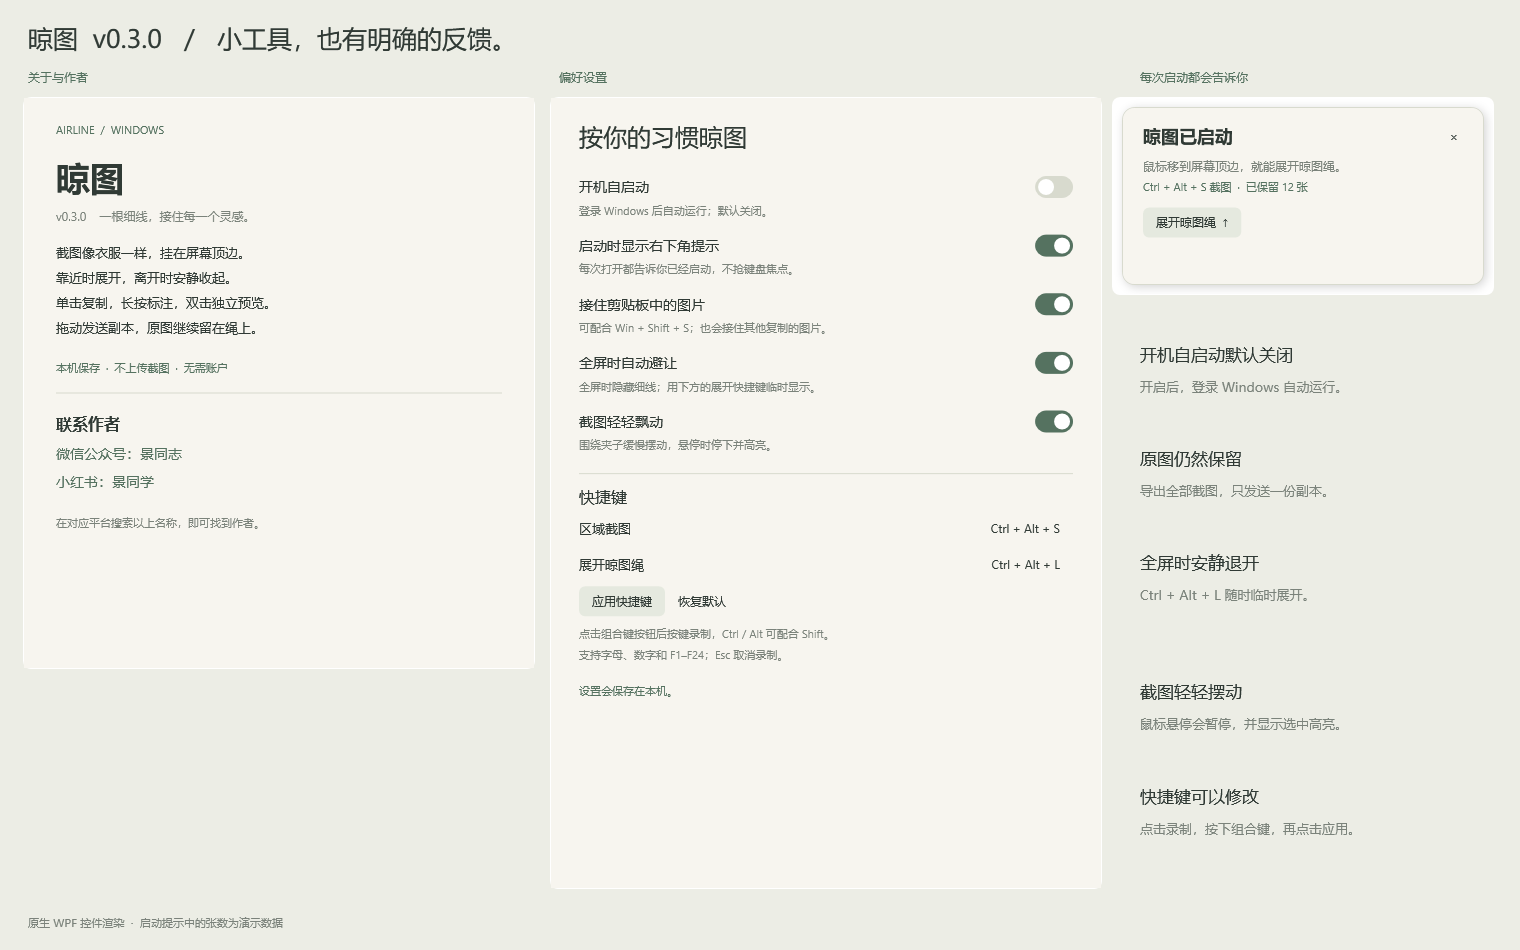
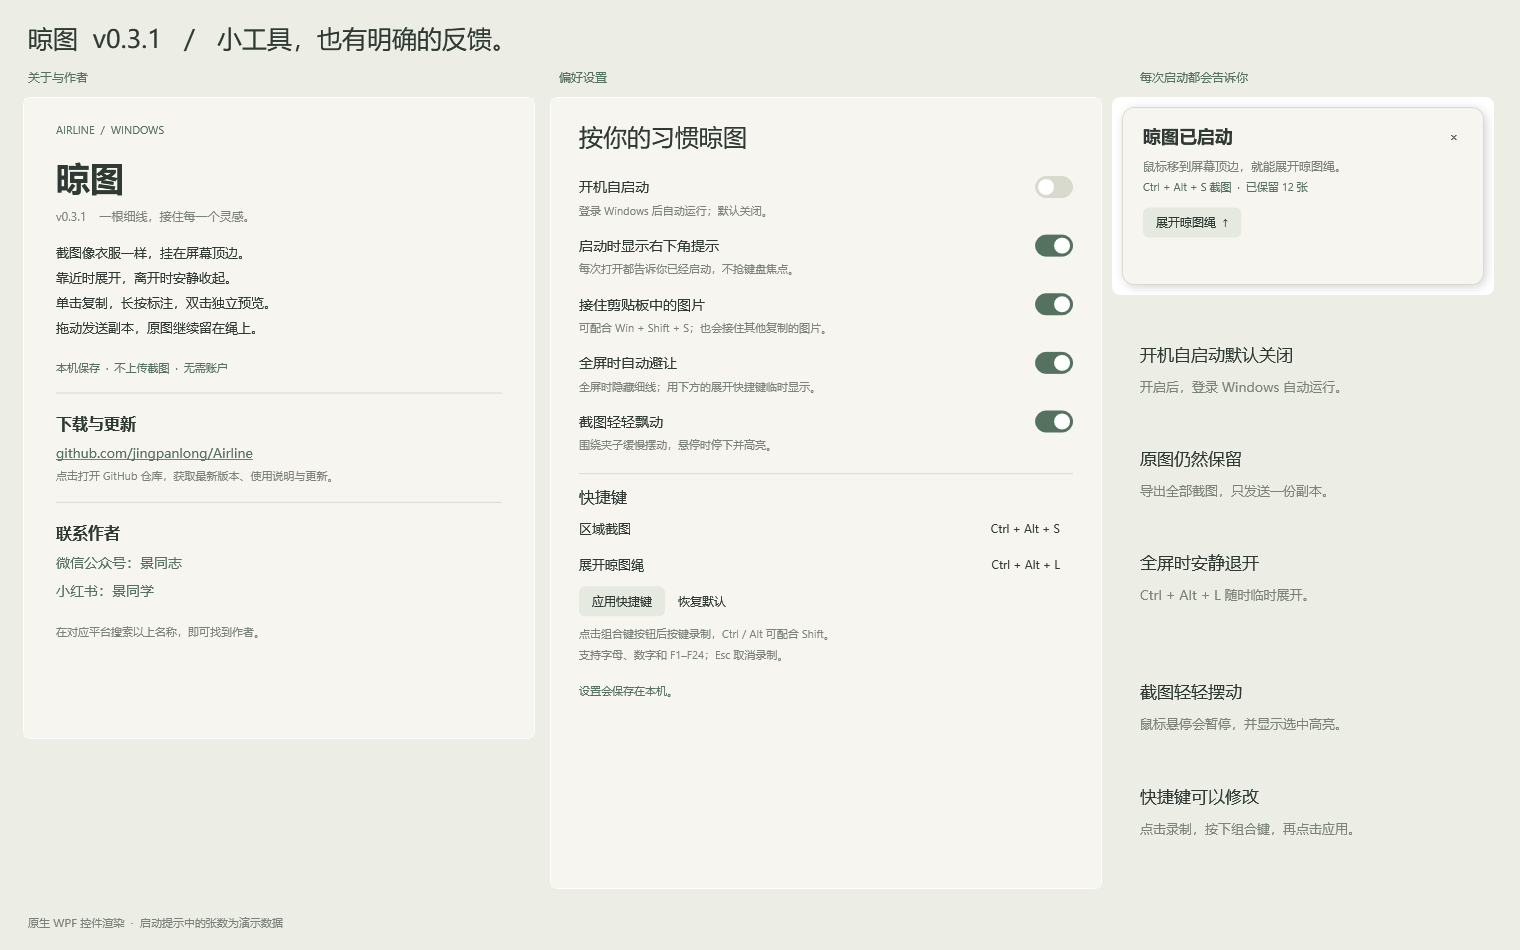
fix(build): 构建脚本添加 UTF-8 BOM，中文系统可正常编译
- 无 BOM 的 UTF-8 脚本在中文 Windows（代码页 936）下会被脚本
  引擎按本地编码误读，导致 build.ps1 解析失败
- 修正自检中 GitHub 链接 Run 的查找层级（在 Hyperlink 内）
- 同步 83 项自检计数、v0.3.1 下载文件名与功能预览图

Changed region(s): [[0.0309, 0.4274, 0.2164, 0.6716], [0.0928, 0.0305, 0.1237, 0.0611]]

diff --git a/source/Diagnostics.cs b/source/Diagnostics.cs
@@ -237,7 +237,7 @@ namespace Airline {
                 check(Find<TextBlock>(about,"AuthorContacts").Text=="微信公众号：景同志\n小红书：景同学" && !shelf.IsBusy,"About contains exact author contacts and does not lock shelf");
                 var linkBlock=Find<TextBlock>(about,"RepositoryLink");
                 var link=linkBlock==null?null:linkBlock.Inlines.OfType<System.Windows.Documents.Hyperlink>().FirstOrDefault();
-                check(link!=null && link.NavigateUri.ToString()==Product.Repository && linkBlock.Inlines.OfType<System.Windows.Documents.Run>().Any(run=>run.Text==Product.RepositoryLabel),"About shows the GitHub repository address");
+                check(link!=null && link.NavigateUri.ToString()==Product.Repository && link.Inlines.OfType<System.Windows.Documents.Run>().Any(run=>run.Text==Product.RepositoryLabel),"About shows the GitHub repository address");
                 string opened=null; var previousOpen=AboutWindow.OpenLink;
                 try { AboutWindow.OpenLink=url=>opened=url; if(link!=null) link.RaiseEvent(new System.Windows.Navigation.RequestNavigateEventArgs(link.NavigateUri,"about")); }
                 finally { AboutWindow.OpenLink=previousOpen; }

diff --git a/README.md b/README.md
@@ -44,10 +44,11 @@
 - **开机自启动**：只写当前用户注册表 `HKCU\...\Run`，无需管理员权限，默认关闭
 - **全屏自动避让**：全屏应用时连细线都隐藏，`Ctrl + Alt + L` 可临时展开十秒
 - **批量导出**：一键把全部原图导出到时间戳文件夹
+- **关于窗口直达下载**：「关于」内提供 GitHub 仓库链接，点击即可获取最新版本（v0.3.1）
 
 ![新增功能预览](新增功能预览.png)
 
-### 📦 安装版（v0.3.0）
+### 📦 安装版（v0.3.1）
 
 - 单文件安装器：选择位置、可选桌面快捷方式 / 开机自启动 / 装完即开
 - 当前用户级安装，**无需管理员权限**，可从 Windows"应用列表"卸载
@@ -71,7 +72,7 @@
 
 ## 🚀 下载使用
 
-1. 从 [Releases](../../releases) 下载**安装版**（`晾图-v0.3.0-安装版.exe`）或**单文件版**（`晾图-v0.3.0-单文件版.exe`）
+1. 从 [Releases](../../releases) 下载**安装版**（`Airline-v0.3.1-Setup.exe`）或**单文件版**（`Airline-v0.3.1-Portable.exe`）
 2. 双击运行；单文件版为便携模式，直接启动即可
 3. 驻留通知区域 → 鼠标移到屏幕顶端 → `Ctrl + Alt + S` 开始截图
 
@@ -98,7 +99,7 @@ powershell -ExecutionPolicy Bypass -File .\source\CreateIcon.ps1
 
 ## ✅ 质量与验证
 
-- **64 项自动化检查全部通过**：原子保存、PNG 像素无损往返、拖放副本原图保留、回收站 CLSID 识别、拖动浮层渲染、设置迁移与失败回退、全屏避让等
+- **83 项自动化检查全部通过**：原子保存、PNG 像素无损往返、拖放副本原图保留、回收站 CLSID 识别、拖动浮层渲染、设置迁移与失败回退、全屏避让等
 - 自检入口：`Airline.exe --self-test <工作目录>`（使用独立测试资料夹，不访问真实截图或剪贴板）
 - 演示渲染：`Airline.exe --render-preview <输出.png>`、`Airline.exe --render-features <输出.png>`
 
